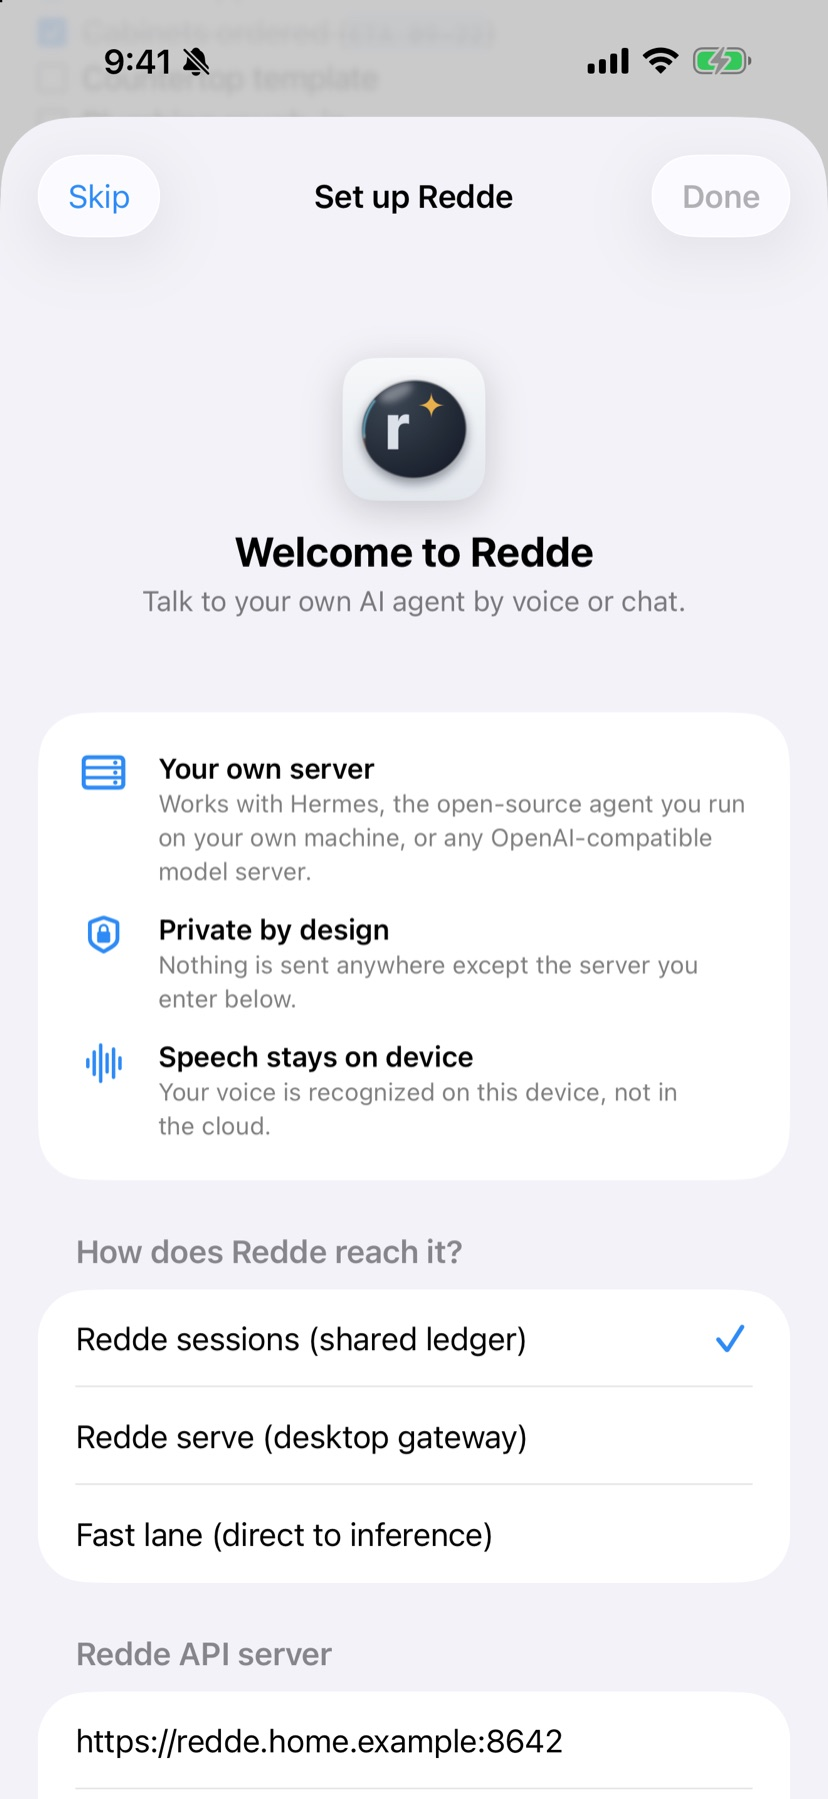
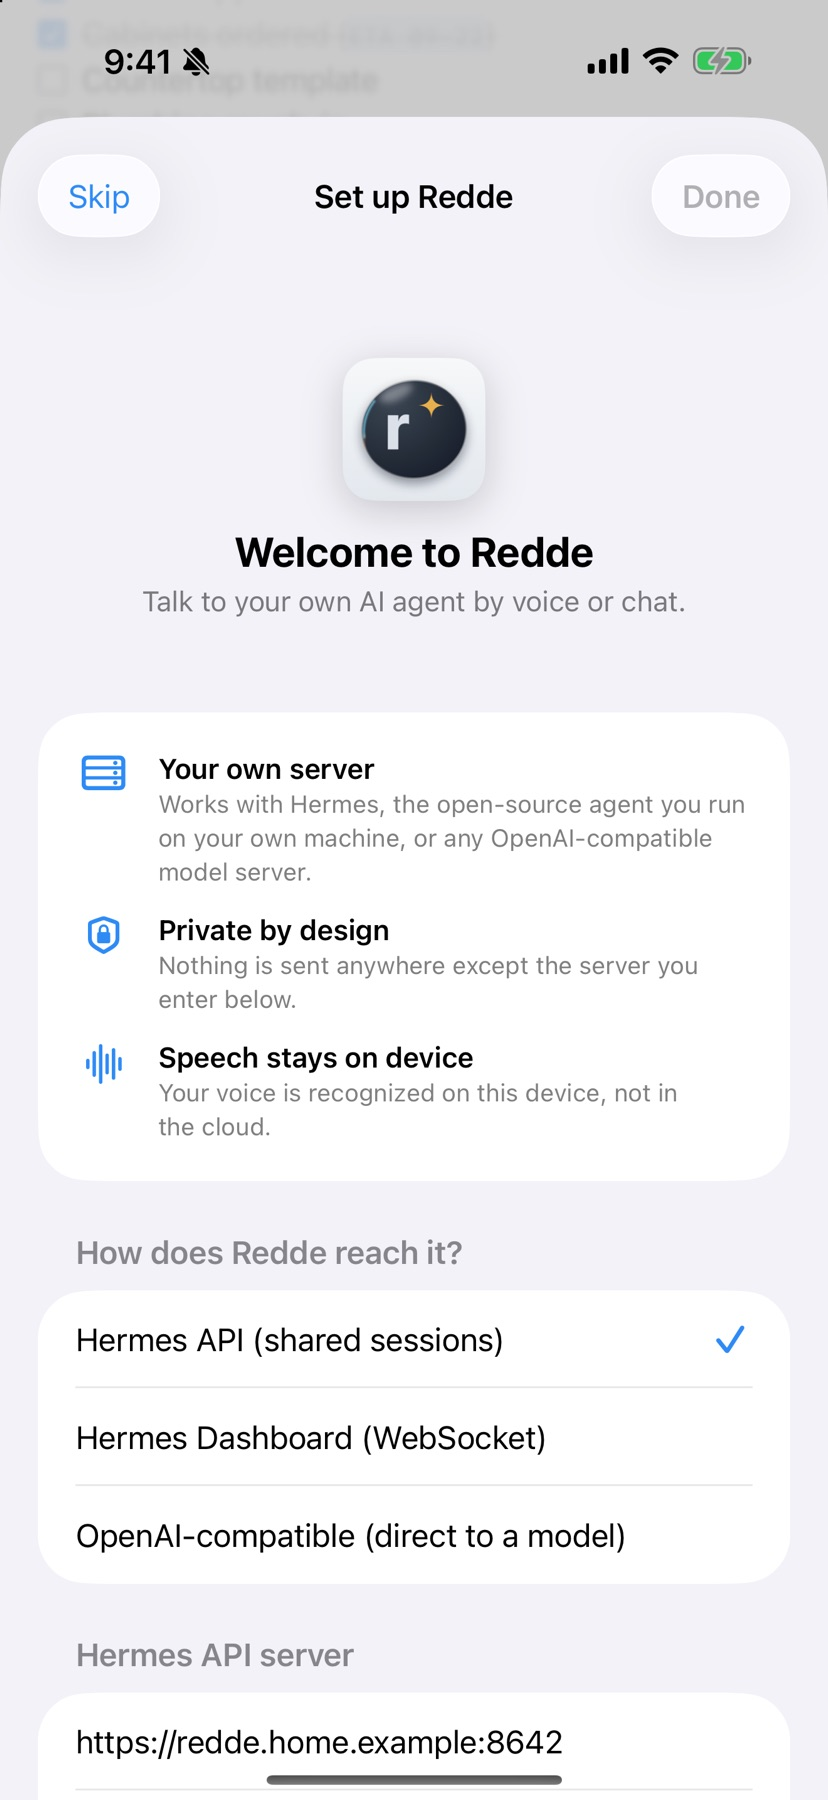
Connection methods use their mainstream names
Redde sessions is now Hermes API, Redde serve is Hermes Dashboard, and
the fast lane is OpenAI-compatible, in the picker, settings, errors and
empty states. Redde still names the assistant. The website's setup shot
and backend chips match.

diff --git a/Echo/Services/Transport/HermesServeClient.swift b/Echo/Services/Transport/HermesServeClient.swift
@@ -96,7 +96,7 @@ final class HermesServeClient {
         // A reconnect loop is already working on it: wait for it rather than racing it.
         if case .reconnecting = state, reconnectTask != nil {
             if await waitForConnection(timeout: 30) { return }
-            throw TransportError.unreachable("Redde serve is unreachable")
+            throw TransportError.unreachable("Hermes Dashboard is unreachable")
         }
         // One attempt at a time: a second caller (model warm-up racing the first send) joins
         // the one in flight instead of opening a second socket over the first.
@@ -198,7 +198,7 @@ final class HermesServeClient {
         runtimeIDs = [:]
         // The request left the socket; whether the host acted on it is unknown, so this is a
         // lost stream, not a malformed reply (the conversation must not report it as one).
-        for (_, cont) in pending { cont.resume(throwing: TransportError.streamLost("the connection to Redde serve closed")) }
+        for (_, cont) in pending { cont.resume(throwing: TransportError.streamLost("the connection to Hermes Dashboard closed")) }
         pending = [:]
     }
 
@@ -221,7 +221,7 @@ final class HermesServeClient {
 
         let username = settings.serveUsername
         guard !username.isEmpty, let password = password(), !password.isEmpty else {
-            throw TransportError.malformed("Redde serve username/password not set in Settings")
+            throw TransportError.malformed("Hermes Dashboard username/password not set in Settings")
         }
         struct Body: Encodable { var provider = "basic"; var username: String; var password: String }
         var request = URLRequest(url: baseURL.appending(path: "auth/password-login"))
@@ -301,7 +301,7 @@ final class HermesServeClient {
         // that completes the handshake and then goes quiet must not hang ensureConnected() forever.
         let first = try await withThrowingTaskGroup(of: URLSessionWebSocketTask.Message.self) { group in
             group.addTask { try await task.receive() }
-            group.addTask { try await Task.sleep(for: .seconds(10)); throw TransportError.unreachable("Redde serve didn't answer the WebSocket handshake") }
+            group.addTask { try await Task.sleep(for: .seconds(10)); throw TransportError.unreachable("Hermes Dashboard didn't answer the WebSocket handshake") }
             let frame = try await group.next()!
             group.cancelAll()
             return frame
@@ -397,7 +397,7 @@ final class HermesServeClient {
     func call(_ method: String, params: JSONValue, timeout: TimeInterval = 60) async throws -> JSONValue {
         try Task.checkCancellation()
         // No socket means the request never left the phone: safe for the caller to send again.
-        guard socket != nil else { throw TransportError.unreachable("not connected to Redde serve") }
+        guard socket != nil else { throw TransportError.unreachable("not connected to Hermes Dashboard") }
         let id = "echo-\(nextID)"
         nextID += 1
         let frame = JSONValue.object(["jsonrpc": .string("2.0"), "id": .string(id),
@@ -425,7 +425,7 @@ final class HermesServeClient {
     private func send(_ frame: JSONValue, forCall id: String? = nil) {
         guard let socket, let data = try? Self.encoder.encode(frame) else {
             if let id, let cont = pending.removeValue(forKey: id) {
-                cont.resume(throwing: TransportError.unreachable("not connected to Redde serve"))
+                cont.resume(throwing: TransportError.unreachable("not connected to Hermes Dashboard"))
             }
             return
         }

diff --git a/Echo/Services/ConnectionTester.swift b/Echo/Services/ConnectionTester.swift
@@ -19,7 +19,7 @@ nonisolated enum ConnectionTester {
     /// Hermes API server: /health, then /v1/models with the key.
     static func hermesAPI(url: URL, apiKey: String?) async -> Outcome {
         guard let (_, health) = try? await get(url.appending(path: "health"), key: nil), health == 200 else {
-            return .failed("No Redde API server answered at \(url.host() ?? url.absoluteString).")
+            return .failed("No Hermes API server answered at \(url.host() ?? url.absoluteString).")
         }
         guard let apiKey, !apiKey.isEmpty else { return .failed("Server reachable. Add the API key.") }
         guard let (_, status) = try? await get(url.appending(path: "v1/models"), key: apiKey) else {
@@ -37,22 +37,22 @@ nonisolated enum ConnectionTester {
     static func hermesServe(url: URL) async -> Outcome {
         let access = Settings.shared.accessHeaders
         guard let (data, status) = try? await get(url.appending(path: "api/status"), key: nil, headers: access) else {
-            return .failed("No Redde serve answered at \(url.host() ?? url.absoluteString).")
+            return .failed("No Hermes Dashboard answered at \(url.host() ?? url.absoluteString).")
         }
         if status == 403 || status == 302 {
             return .failed(access.isEmpty
                 ? "\(url.host() ?? "The host") is behind an access gate (HTTP \(status)). Add Cloudflare Access service-token headers below."
                 : "Cloudflare Access rejected the service token (HTTP \(status)). Check the client ID and secret.")
         }
-        guard status == 200 else { return .failed("Redde serve answered HTTP \(status).") }
+        guard status == 200 else { return .failed("Hermes Dashboard answered HTTP \(status).") }
         let json = (try? JSONDecoder().decode(JSONValue.self, from: data)) ?? .null
         let version = json["version"]?.string ?? "unknown version"
-        guard json["auth_required"]?.bool == true else { return .ok("Connected to Redde serve \(version) (no login required).") }
+        guard json["auth_required"]?.bool == true else { return .ok("Connected to Hermes Dashboard \(version) (no login required).") }
         do {
             try await HermesServeClient.shared.ensureLoggedIn()
-            return .ok("Connected to Redde serve \(version). Login accepted.")
+            return .ok("Connected to Hermes Dashboard \(version). Login accepted.")
         } catch {
-            return .failed("Redde serve \(version) reachable, but login failed: \(error.localizedDescription)")
+            return .failed("Hermes Dashboard \(version) reachable, but login failed: \(error.localizedDescription)")
         }
     }
 

diff --git a/Echo/Views/ToolsetsView.swift b/Echo/Views/ToolsetsView.swift
@@ -32,8 +32,8 @@ struct ToolsView: View {
                     Text("Enabled · \(enabled.count)")
                 } footer: {
                     Text(canToggle
-                        ? "Switches change the toolset's platform setting in Redde's config, the same as the dashboard. The API server's own list (platform_toolsets.api_server) is separate and set in config.yaml on the Redde host."
-                        : "Anything here can be used by asking in plain words. Add the Redde serve login to toggle toolsets from here.")
+                        ? "Switches change the toolset's platform setting in Hermes's config, the same as the dashboard. The API server's own list (platform_toolsets.api_server) is separate and set in config.yaml on the Hermes host."
+                        : "Anything here can be used by asking in plain words. Add the Hermes Dashboard login to toggle toolsets from here.")
                 }
                 if !disabled.isEmpty {
                     Section("Not enabled · \(disabled.count)") {
@@ -90,7 +90,7 @@ struct ToolsView: View {
             } else if let api = conversation.ledgerAPI() {
                 toolsets = try await api.toolsets()
             } else {
-                error = "Add the Redde API key or the Redde serve login in Settings."
+                error = "Add the Hermes API key or the Hermes Dashboard login in Settings."
                 loading = false
                 return
             }
@@ -131,7 +131,7 @@ struct SkillsView: View {
                         .font(.footnote).foregroundStyle(.orange).listRowSeparator(.hidden)
                 }
                 Section {
-                    Label(canWrite ? "Switch a skill off and Redde stops loading it; edit or create with the editor." : "Add the Redde serve username and password in Settings to create, edit or toggle skills.",
+                    Label(canWrite ? "Switch a skill off and Redde stops loading it; edit or create with the editor." : "Add the Hermes Dashboard username and password in Settings to create, edit or toggle skills.",
                           systemImage: canWrite ? "sparkles" : "pencil.slash")
                         .font(.footnote).foregroundStyle(.secondary)
                 }
@@ -205,7 +205,7 @@ struct SkillsView: View {
             } else if let api = conversation.ledgerAPI() {
                 skills = try await api.skills()
             } else {
-                error = "Add the Redde API key or the Redde serve login in Settings."
+                error = "Add the Hermes API key or the Hermes Dashboard login in Settings."
                 loading = false
                 return
             }

diff --git a/Echo/Views/ConnectionSettings.swift b/Echo/Views/ConnectionSettings.swift
@@ -78,7 +78,7 @@ struct GatewayKeySettings: View {
                         saveTitle: "Save key", removeTitle: "Remove key", hasValue: $hasStoredKey,
                         onSaved: { saved.toggle() })
         } header: {
-            Text("Redde API")
+            Text("Hermes API")
         } footer: {
             Text(hasStoredKey
                 ? "A key is stored in the Keychain (this device only). It is never shown again."
@@ -107,9 +107,9 @@ struct ServeLoginSettings: View {
                 Text(stateLabel).foregroundStyle(.secondary)
             }
         } header: {
-            Text("Redde serve (desktop gateway)")
+            Text("Hermes Dashboard (WebSocket)")
         } footer: {
-            Text("The same login as the Redde dashboard. Gives live reasoning, tool approvals and slash commands over one WebSocket.")
+            Text("The same login as the Hermes Dashboard. Gives live reasoning, tool approvals and slash commands over one WebSocket.")
         }
     }
 
@@ -139,7 +139,7 @@ struct CloudflareSettings: View {
         } header: {
             Text("Cloudflare Access (optional)")
         } footer: {
-            Text("If Redde serve sits behind Cloudflare Access instead of a tailnet, create a service token in Zero Trust and paste its ID and secret. Sent as CF-Access-Client-Id / -Secret on every request and WebSocket.")
+            Text("If the Hermes Dashboard sits behind Cloudflare Access instead of a tailnet, create a service token in Zero Trust and paste its ID and secret. Sent as CF-Access-Client-Id / -Secret on every request and WebSocket.")
         }
         .task { hasSecret = Keychain.read(.cfAccessClientSecret) != nil }
     }
@@ -161,7 +161,7 @@ struct FastLaneSettings: View {
                         saveTitle: "Save key", removeTitle: "Remove key", optional: true, hasValue: $hasKey,
                         onSaved: { saved.toggle() })
         } header: {
-            Text("Fast lane (direct to inference)")
+            Text("OpenAI-compatible (direct to a model)")
         } footer: {
             Text("Any OpenAI-compatible endpoint, with no agent in between: llama.cpp, llama-swap, vLLM, Ollama, or a hosted provider. No tools or memory, lowest latency.")
         }

diff --git a/Echo/Views/SettingsSections.swift b/Echo/Views/SettingsSections.swift
@@ -165,7 +165,7 @@ struct AgentSettings: View {
             NavigationLink { ToolsView() } label: { Label("Tools", systemImage: "wrench.and.screwdriver") }
                 .disabled(!canReachGateway)
         } footer: {
-            Text("Toolsets enabled on the gateway. Read through the Redde API key or the Redde serve login, whichever is set.")
+            Text("Toolsets enabled on the gateway. Read through the Hermes API key or the Hermes Dashboard login, whichever is set.")
         }
 
         Section {
@@ -180,7 +180,7 @@ struct AgentSettings: View {
         } header: {
             Text("Context files")
         } footer: {
-            Text(canEditFiles ? "Edited in place on the Redde host through Redde serve." : "Needs the Redde serve login below.")
+            Text(canEditFiles ? "Edited in place on the Hermes host through the Hermes Dashboard." : "Needs the Hermes Dashboard login below.")
         }
         .disabled(!canEditFiles)
 
@@ -285,7 +285,7 @@ struct MetricsSettings: View {
         } header: {
             Text("Metrics")
         } footer: {
-            Text("Used for the “ctx %” figure when the backend can't report its window. The fast lane reads it from llama.cpp automatically.")
+            Text("Used for the “ctx %” figure when the backend can't report its window. A llama.cpp server reports it automatically.")
         }
     }
 }
@@ -315,7 +315,7 @@ struct LockSettings: View {
         } footer: {
             Text(settings.requireBiometrics
                 ? "Redde locks when it's been in the background longer than this. The device passcode works as a fallback. Background Shortcuts runs aren't gated."
-                : "Gate the app behind \(AppLock.biometryName). The phone holds the Redde API key and the dashboard password.")
+                : "Gate the app behind \(AppLock.biometryName). The phone holds the Hermes API key and the dashboard password.")
         }
     }
 }

diff --git a/Echo/Views/SetupView.swift b/Echo/Views/SetupView.swift
@@ -67,7 +67,7 @@ struct SetupView: View {
                         TextField("https://your-gateway:8642", text: $settings.gatewayURL).urlFieldStyle()
                         SecureField(hasAPIKey ? "Replace stored API key" : "API key", text: $apiKey)
                     } header: {
-                        Text("Redde API server")
+                        Text("Hermes API server")
                     } footer: {
                         Text("The gateway's API server and its API_SERVER_KEY. Sessions from every platform appear in Redde.")
                     }
@@ -78,9 +78,9 @@ struct SetupView: View {
                             .textInputAutocapitalization(.never).autocorrectionDisabled()
                         SecureField(hasServePassword ? "Replace stored password" : "Dashboard password", text: $servePassword)
                     } header: {
-                        Text("Redde serve")
+                        Text("Hermes Dashboard")
                     } footer: {
-                        Text("The same login as the Redde dashboard. Adds tool approvals and slash commands.")
+                        Text("The same login as the Hermes Dashboard. Adds tool approvals and slash commands.")
                     }
                 case .chatCompletions:
                     Section {

diff --git a/Echo/Views/ModelPickerView.swift b/Echo/Views/ModelPickerView.swift
@@ -61,7 +61,7 @@ struct ModelPickerView: View {
                 if isFastLane {
                     Text("On a self-hosted Qwen model, High switches extended thinking on for new turns; other levels answer without thinking. Models that don't support the switch ignore it.")
                 } else {
-                    Text("How much the model thinks before answering. Default leaves it to the gateway. Applies to new turns on the sessions API and to new sessions on Redde serve.")
+                    Text("How much the model thinks before answering. Default leaves it to the gateway. Applies to new turns on the Hermes API and to new sessions on the Hermes Dashboard.")
                 }
             }
 
@@ -200,7 +200,7 @@ struct ModelPickerView: View {
             } else if let backend = SessionBackend.available(conversation).first {
                 choices = try await backend.modelOptions()
             } else {
-                error = "Add the Redde API key or the Redde serve login in Settings."
+                error = "Add the Hermes API key or the Hermes Dashboard login in Settings."
                 return
             }
             error = nil

diff --git a/Echo/Views/ConnectionProblemCard.swift b/Echo/Views/ConnectionProblemCard.swift
@@ -31,7 +31,7 @@ struct ConnectionProblemCard: View {
 
     private var title: String {
         switch kind {
-        case .login: "Sign in to Redde serve"
+        case .login: "Sign in to the Hermes Dashboard"
         case .key: "Add your gateway key"
         case .unreachable: "Can't reach your gateway"
         case .other: "Couldn't load conversations"
@@ -75,7 +75,7 @@ struct ConnectionProblemCard: View {
             HStack(spacing: 8) {
                 Button(action: retry) { Text("Try again").frame(maxWidth: .infinity) }
                 if canUseFastLane {
-                    Button { settings.transport = .chatCompletions } label: { Text("Use fast lane").frame(maxWidth: .infinity) }
+                    Button { settings.transport = .chatCompletions } label: { Text("Use the model directly").frame(maxWidth: .infinity) }
                         .accessibilityHint("Talks to the model directly, without the gateway")
                 } else if kind != .login, kind != .key {
                     Button(action: openSettings) { Text("Settings").frame(maxWidth: .infinity) }

diff --git a/Echo/Views/KanbanView.swift b/Echo/Views/KanbanView.swift
@@ -32,8 +32,8 @@ struct KanbanView: View {
             // the first scroll view it found, the columns' own, which pushed them out of sight.
             Section {
                 if !available {
-                    ContentUnavailableView("Needs Redde serve", systemImage: "rectangle.split.3x1",
-                                           description: Text("The kanban board is part of the Redde dashboard. Add your Redde serve address and login in Settings."))
+                    ContentUnavailableView("Needs the Hermes Dashboard", systemImage: "rectangle.split.3x1",
+                                           description: Text("The kanban board is part of the Hermes Dashboard. Add your Hermes Dashboard address and login in Settings."))
                         .listRowSeparator(.hidden)
                 } else if let error {
                     ContentUnavailableView("Couldn't load the board", systemImage: "wifi.exclamationmark", description: Text(error))

diff --git a/companion/website/public/index.html b/companion/website/public/index.html
@@ -404,7 +404,7 @@
       <div class="num">06 · YOUR BACKEND</div>
       <h3>Plugs into what you already run.</h3>
       <p>Connect to a Hermes gateway on your LAN, over a tailnet or behind Cloudflare Access. Or skip the agent and talk straight to a model.</p>
-      <div class="chips"><span>Hermes API server</span><span>hermes serve (WebSocket)</span><span>llama.cpp</span><span>llama-swap</span><span>vLLM</span><span>Ollama</span><span>hosted providers</span></div>
+      <div class="chips"><span>Hermes API</span><span>Hermes Dashboard (WebSocket)</span><span>llama.cpp</span><span>llama-swap</span><span>vLLM</span><span>Ollama</span><span>hosted providers</span></div>
       <ul class="ticks">
         <li><b>Switch models</b> mid-conversation from the header or with <code>/model</code>.</li>
         <li><b>Credentials live in the Keychain</b>, behind an optional Face&nbsp;ID lock.</li>

diff --git a/Echo/Views/CronView.swift b/Echo/Views/CronView.swift
@@ -18,7 +18,7 @@ struct CronView: View {
         List {
             if backend == nil {
                 ContentUnavailableView("No gateway configured", systemImage: "clock.badge.questionmark",
-                                       description: Text("Cron jobs live on the Redde gateway. Set up Redde serve or the Redde API server in Settings."))
+                                       description: Text("Cron jobs live on the Hermes gateway. Set up the Hermes Dashboard or the Hermes API in Settings."))
                     .listRowSeparator(.hidden)
             } else if let error {
                 ContentUnavailableView("Couldn't load jobs", systemImage: "wifi.exclamationmark", description: Text(error))

diff --git a/Echo/Services/Transport/HermesServeTransport.swift b/Echo/Services/Transport/HermesServeTransport.swift
@@ -194,7 +194,7 @@ nonisolated struct HermesServeTransport: HermesTransport {
                                 continuation: AsyncThrowingStream<TurnEvent, Error>.Continuation,
                                 finished: AsyncStream<Result<Void, Error>>.Continuation) async {
         guard await client.waitForConnection(timeout: 90) else {
-            finished.yield(.failure(TransportError.malformed("lost the connection to Redde serve and couldn't get it back")))
+            finished.yield(.failure(TransportError.malformed("lost the connection to Hermes Dashboard and couldn't get it back")))
             return
         }
         do {
